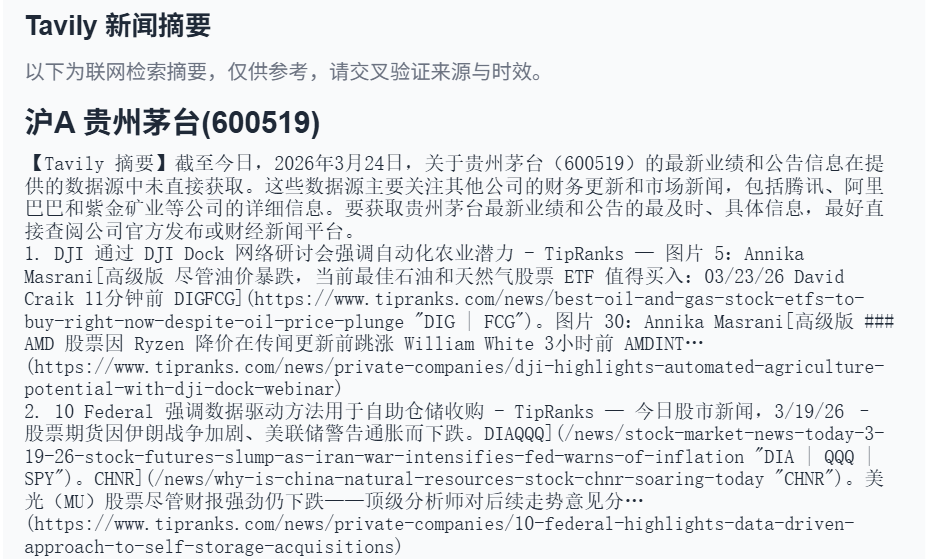
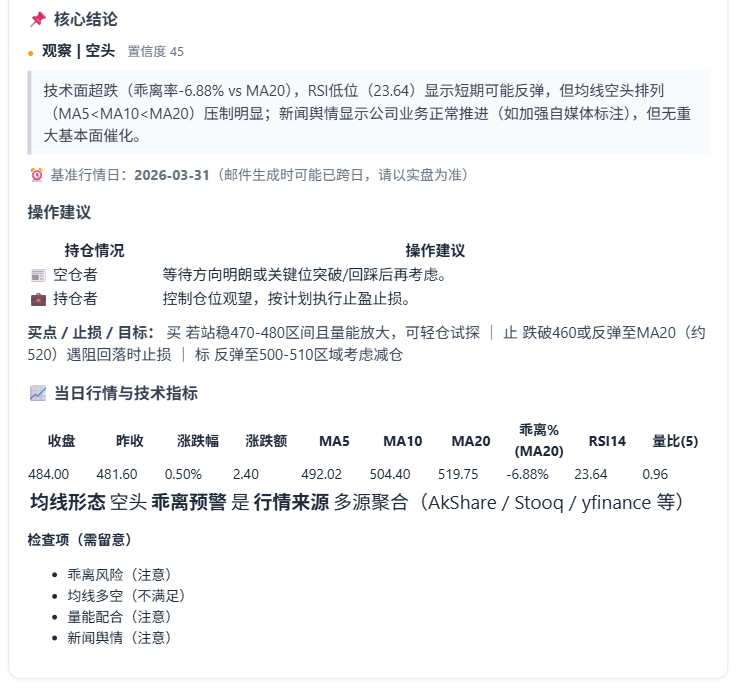
修改邮件图片

Changed region(s): [[0.0, 0.0, 0.9674, 1.0], [0.9362, 0.8515, 0.9674, 0.8819]]

diff --git a/README.md b/README.md
@@ -129,6 +129,10 @@ python -m src --schedule
 
 ![](images/email03.png)
 
+![](images/email04.png)
+
+![](images/email05.png)
+
 ## 关键配置说明（.env）
 
 ### LLM（LiteLLM 统一调用）

diff --git a/README_CHT.md b/README_CHT.md
@@ -129,6 +129,10 @@ python -m src --schedule
 
 ![](images/email03.png)
 
+![](images/email04.png)
+
+![](images/email05.png)
+
 ## 關鍵配置說明（.env）
 
 ### LLM（LiteLLM 統一呼叫）

diff --git a/README_EN.md b/README_EN.md
@@ -131,6 +131,10 @@ Common arguments:
 
 ![](images/email03.png)
 
+![](images/email04.png)
+
+![](images/email05.png)
+
 ## Key Configuration Details (.env)
 
 ### LLM (Unified LiteLLM Calls)
